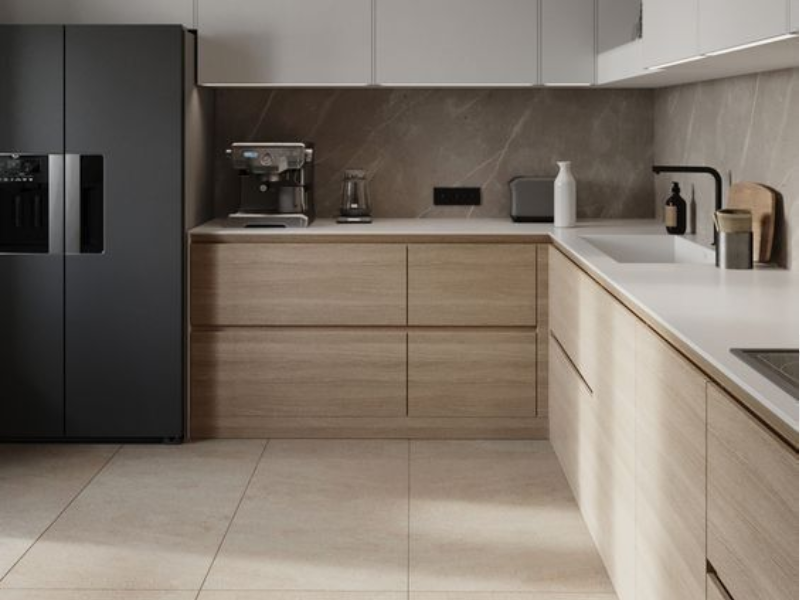
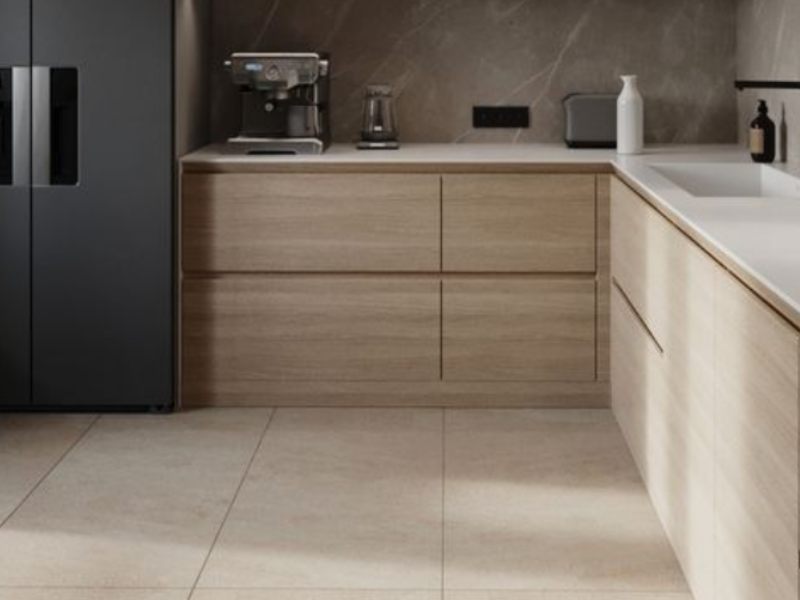
fth

diff --git a/sixseven/principal.py b/sixseven/principal.py
@@ -3,10 +3,8 @@ import os
 import sys
 import json
 
-# Carpeta donde está este archivo
 ruta_actual = os.path.dirname(os.path.abspath(__file__))
 
-# Agrega la carpeta de minijuegos al path
 ruta_minijuegos = os.path.join(ruta_actual, "..", "minijuegos")
 sys.path.append(os.path.normpath(ruta_minijuegos))
 
@@ -20,10 +18,6 @@ alto = 600
 TIEMPO_DISMINUCION = 1000
 DURACION_NOCHE = 3000
 
-# ---------------------------------------------------------------
-# BÚSQUEDA DE IMÁGENES
-# Busca cada archivo en varias carpetas posibles (FONDOS, objetos...)
-# ---------------------------------------------------------------
 CARPETAS = [
     "", "FONDOS", "objetos", "personajes", "imagenes",
     "..", os.path.join("..", "FONDOS"), os.path.join("..", "objetos"),
@@ -67,12 +61,8 @@ def fondo_o_color(nombre, color):
     return img
 
 
-# ---------------------------------------------------------------
-# DATOS GUARDADOS (monedas e inventario)
-# ---------------------------------------------------------------
 ARCHIVO_GUARDADO = os.path.join(ruta_actual, "guardado.json")
 
-# Cada comida: (nombre, imagen, precio 3-10, puntos de comida que da)
 COMIDAS = [
     ("Manzana", "manzana.png", 3, 10),
     ("Pizza", "pizza.png", 6, 20),
@@ -97,7 +87,6 @@ def cargar_datos():
             return
         except (OSError, ValueError):
             pass
-    # Primera vez que se abre el juego: 100 monedas
     monedas = 100
     guardar()
 
@@ -112,9 +101,6 @@ def guardar():
 
 cargar_datos()
 
-# ---------------------------------------------------------------
-# ESTADO DEL JUEGO
-# ---------------------------------------------------------------
 baño = 100
 comer = 100
 dormir = 100
@@ -131,7 +117,7 @@ tiempo_mensaje = 0
 habitacion_actual = 0
 nombres_habitaciones = ["BAÑO", "SALA DE ESTAR", "HABITACIÓN", "COCINA"]
 
-subpantalla = "normal"  # normal, minijuegos, tienda, comidas
+subpantalla = "normal"  
 
 
 def avisar(texto):
@@ -140,9 +126,6 @@ def avisar(texto):
     tiempo_mensaje = pygame.time.get_ticks()
 
 
-# ---------------------------------------------------------------
-# IMÁGENES
-# ---------------------------------------------------------------
 fondo_bano = fondo_o_color("bano.png", (173, 216, 230))
 fondo_sala = fondo_o_color("principal.png", (240, 230, 140))
 fondo_habitacion = fondo_o_color("habitacion.png", (230, 230, 250))
@@ -182,13 +165,9 @@ fuente = pygame.font.Font(None, 28)
 fuente_grande = pygame.font.Font(None, 36)
 fuente_numero = pygame.font.Font(None, 22)
 
-# ---------------------------------------------------------------
-# RECTÁNGULOS
-# ---------------------------------------------------------------
 flecha_izquierda = pygame.Rect(10, 270, 50, 60)
 flecha_derecha = pygame.Rect(740, 270, 50, 60)
 
-# Objetos del baño (cada uno sube la higiene)
 objeto_jabon = pygame.Rect(190, 450, 110, 110)
 objeto_ducha = pygame.Rect(345, 450, 110, 110)
 objeto_toalla = pygame.Rect(500, 450, 110, 110)
@@ -198,7 +177,7 @@ objetos_bano = [
     (objeto_toalla, img_toalla, "Toalla", 10),
 ]
 
-# Almohada (reemplaza el botón de dormir)
+
 objeto_almohada = pygame.Rect(345, 450, 110, 110)
 
 boton_minijuegos = pygame.Rect(230, 480, 160, 50)
@@ -211,7 +190,7 @@ botones_minijuegos = [
 
 boton_volver = pygame.Rect(20, 20, 100, 40)
 
-# Tarjetas de comidas (tienda y cocina)
+
 tarjetas_comidas = [
     pygame.Rect(70 + i * 170, 200, 150, 190) for i in range(len(COMIDAS))
 ]
@@ -223,9 +202,6 @@ barra_dormir = pygame.Rect(410, pos_y_barras, 170, 20)
 barra_jugar = pygame.Rect(600, pos_y_barras, 170, 20)
 
 
-# ---------------------------------------------------------------
-# DIBUJO
-# ---------------------------------------------------------------
 def dibujar_barra(ventana, rectangulo, nombre, valor):
     pygame.draw.rect(ventana, (220, 220, 220), rectangulo)
     ancho_barra = int(rectangulo.width * valor / 100)
@@ -294,16 +270,6 @@ def dibujar_catalogo(ventana, titulo, modo):
     dibujar_boton(ventana, boton_volver, "Volver")
 
 
-# ---------------------------------------------------------------
-# ESTADO DE POU
-# Regla: se usa la barra MÁS BAJA para decidir el aspecto.
-#   0        -> muerto
-#   1 - 30   -> triste
-#   31 - 59  -> popo
-#   60 - 79  -> maso
-#   80 - 100 -> feliz
-# Mientras duerme se muestra dormido; al terminar se recalcula solo.
-# ---------------------------------------------------------------
 def obtener_personaje():
     if modo_noche:
         return pou_dormido
@@ -321,16 +287,12 @@ def obtener_personaje():
     return pou_feliz
 
 
-# ---------------------------------------------------------------
-# CLICKS
-# ---------------------------------------------------------------
 def manejar_click(posicion):
     global baño, comer, dormir, jugar
     global modo_noche, inicio_noche
     global habitacion_actual, subpantalla
     global monedas
 
-    # MENÚ DE MINIJUEGOS
     if subpantalla == "minijuegos":
         if boton_volver.collidepoint(posicion):
             subpantalla = "normal"
@@ -342,7 +304,6 @@ def manejar_click(posicion):
                     resultado = Flappy_Pau.ejecutar_flappy()
                     subpantalla = "minijuegos"
 
-                    # Si el minijuego devuelve un número, son las monedas ganadas
                     if isinstance(resultado, int) and resultado > 0:
                         monedas += resultado
                         guardar()
@@ -352,7 +313,6 @@ def manejar_click(posicion):
                     avisar(f"Minijuego {i + 1} en desarrollo")
         return
 
-    # TIENDA (comprar comidas)
     if subpantalla == "tienda":
         if boton_volver.collidepoint(posicion):
             subpantalla = "normal"
@@ -369,7 +329,6 @@ def manejar_click(posicion):
                     avisar("No te alcanzan las monedas")
         return
 
-    # COCINA (comer lo comprado)
     if subpantalla == "comidas":
         if boton_volver.collidepoint(posicion):
             subpantalla = "normal"
@@ -382,10 +341,9 @@ def manejar_click(posicion):
                     comer = min(100, comer + valor)
                     guardar()
                 else:
-                    avisar(f"No tienes {nombre}")
+                    avisar(f"No tenes {nombre}")
         return
 
-    # CAMBIO DE HABITACIÓN
     if flecha_izquierda.collidepoint(posicion):
         habitacion_actual = (habitacion_actual - 1) % 4
         return
@@ -393,34 +351,27 @@ def manejar_click(posicion):
         habitacion_actual = (habitacion_actual + 1) % 4
         return
 
-    # BAÑO
     if habitacion_actual == 0:
         for rect, _, _, subida in objetos_bano:
             if rect.collidepoint(posicion):
                 baño = min(100, baño + subida)
 
-    # SALA
     elif habitacion_actual == 1:
         if boton_minijuegos.collidepoint(posicion):
             subpantalla = "minijuegos"
         elif boton_tienda.collidepoint(posicion):
             subpantalla = "tienda"
 
-    # HABITACIÓN
     elif habitacion_actual == 2:
         if objeto_almohada.collidepoint(posicion) and not modo_noche:
             modo_noche = True
             inicio_noche = pygame.time.get_ticks()
 
-    # COCINA
     elif habitacion_actual == 3:
         if boton_comidas.collidepoint(posicion):
             subpantalla = "comidas"
 
 
-# ---------------------------------------------------------------
-# ACTUALIZACIÓN
-# ---------------------------------------------------------------
 def actualizar_necesidades():
     global baño, comer, dormir, jugar
     global ultimo_descenso, ultimo_incremento_dormir, modo_noche
@@ -446,9 +397,6 @@ def actualizar_necesidades():
             modo_noche = False
 
 
-# ---------------------------------------------------------------
-# PANTALLA PRINCIPAL
-# ---------------------------------------------------------------
 def principal():
     ventana = pygame.display.get_surface()
 

diff --git a/sixseven/menu.py b/sixseven/menu.py
@@ -27,11 +27,10 @@ cuadro3 = pygame.Rect(x, 375, 200, 50)
 
 cruz = pygame.Rect(740, 10, 40, 40)
 
-# Fondo del menú (busca PAU.png en FONDOS, etc.)
 fondo = principal.cargar_imagen("PAU.png", tamaño=(ancho, alto))
 if fondo is None:
     fondo = pygame.Surface((ancho, alto))
-    fondo.fill((100, 150, 200))  # corregido: fill recibe una tupla
+    fondo.fill((100, 150, 200)) 
 
 
 while ejecutando:

diff --git a/minijuegos/Flappy_Pau.py b/minijuegos/Flappy_Pau.py
@@ -42,10 +42,6 @@ def ejecutar_flappy():
         "flappypau.png"
     )
 
-    # =========================================================
-    # CARGAR IMÁGENES
-    # =========================================================
-
     fondo = pygame.image.load(ruta_fondo).convert()
     pau = pygame.image.load(ruta_pau).convert_alpha()
 
